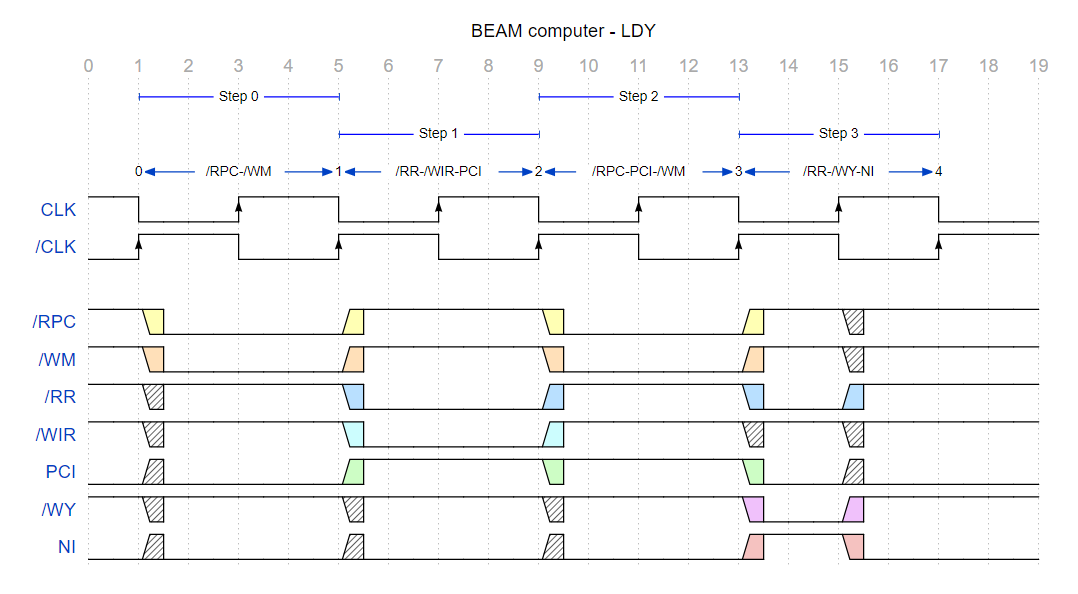
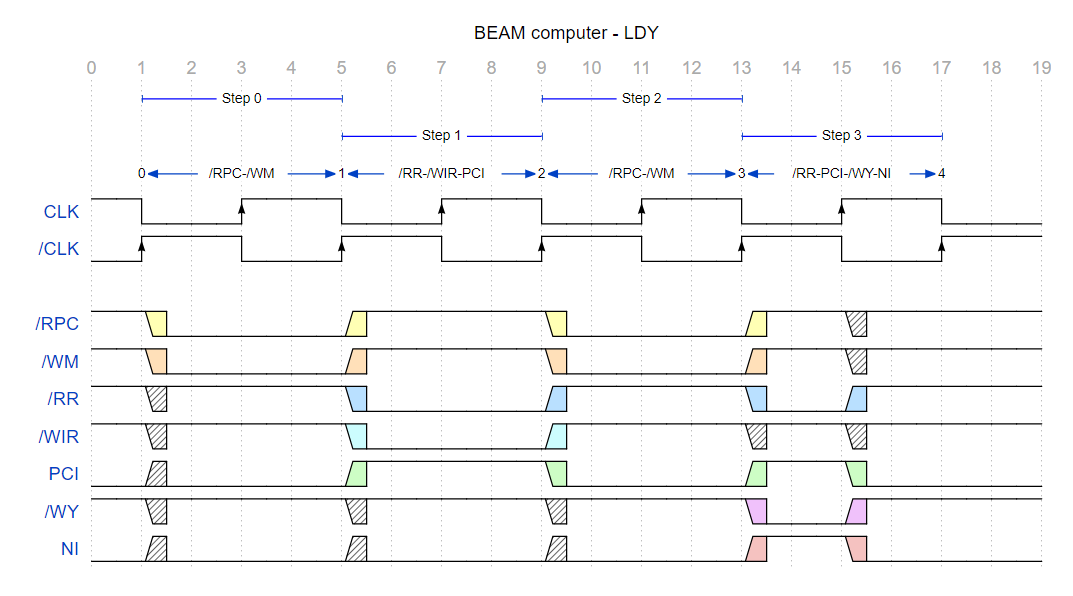
Update Flag C in CL

diff --git a/docs/_docs/40-control.md b/docs/_docs/40-control.md
@@ -114,7 +114,7 @@ Tirando le fila, per un computer come l'NQSAP o il BEAM:
 
 Per l'NQSAP Tom ha deciso di utilizzare comunque EEPROM da 256Kb anziché da 64Kb; il BEAM richiede invece obbligatoriamente EEPROM da 256Kb, perché le EEPROM da 128Kb con interfaccia parallela <a href="https://eu.mouser.com/c/semiconductors/memory-ics/eeprom/?interface%20type=Parallel" target="_blank">non sono disponibili in commercio</a>.
 
-Come si vedrà in seguito parlando del Ring Counter, un aspetto importante del caricamento dei registri è il [*momento*](#il-clock-e-il-glitching-delle-eeprom) in cui vengono caricati: al Falling Edge del clock, oppure al Rising Edge: il caricamento dell'Instruction Register del SAP e dell'NQSAP avviene al Rising Edge, mentre quello del BEAM avviene al Falling Edge.
+Come si vedrà in seguito parlando del Ring Counter, un aspetto importante del caricamento dei registri è il [*momento*](#il-clock-il-glitching-delle-eeprom-e-linstruction-register-parte-2) in cui vengono caricati: al Falling Edge del clock, oppure al Rising Edge: il caricamento dell'Instruction Register del SAP e dell'NQSAP avviene al Rising Edge, mentre quello del BEAM avviene al Falling Edge.
 
 Prima di approfondire l'argomento, è opportuno iniziare a parlare anche del Ring Counter, che ha un ruolo primario nel caricamento di tutti i registri, IR compreso.
 
@@ -295,15 +295,51 @@ Risulta comunque interessante visualizzare il comportamento dei segnali di contr
 
 *Nessun glitching sul BEAM al momento 7 nello step 1*.
 
-Il primo dei due '377 dell'IR viene aggiornato al Rising Edge nel momento 7, come avviene anche nel SAP. Le uscite di questo primo registro sono inviate come input al secondo '377, che si aggiorna al momento 9 in contemporanea con l'incremento del RC al Falling Edge del clock. In questo modo, tutti i segnali di controllo hanno tempo di stabilizzarsi in attesa del momento 11, quando i registri vengono caricati secondo le microistruzioni impostate dallo step 2.
+Il primo dei due '377 dell'IR viene aggiornato al Rising Edge nel momento 7, come avviene anche nel SAP. Le uscite di questo primo registro sono inviate come input al secondo '377, che si aggiorna al momento 9 in contemporanea con l'incremento del RC al Falling Edge del clock. In questo modo, tutti gli ingressi delle EEPROM vengono aggiornati contemporaneamente e hanno tempo di stabilizzarsi in attesa del momento 11, quando i registri vengono caricati secondo le microistruzioni impostate dallo step 2.
 
-**sistemare il wavedro, perché l'istruzione LDY del BEAM ha il PCI all'ultimo step e non penultimo**
+Sì, d'accordo, ma come possiamo valutare che l'eliminazione del glitching deriva effettivamente dalla modifica al Program Counter? Tutti i registri 8 bit del BEAM sono realizzati con '377, ma vi sono alcuni registri che abbisognano di un gate in ingresso per creare un segnale di abilitazione artificiale: i Flag.
 
-**DA FINIRE aggiungere qui la wavedrom del caricamento del flag** Se tutti registri 8 bit del beam sono realizzati con 377, vi sono in realtà alcuni registri che abbisognano di un gate in ingresso per creare un segnale di  abilitazione artificiale: Flag. Per modificare un Flag possiamo prendere in esame la semplice istruzione CLC che azzera il carry.
+![Registro Flag C del BEAM](../../assets/control/40-beam-c-flag.png "Nessun glitching sul BEAM al momento 7 nello step 1"){:width="66%"}
+
+*Registro Flag C del BEAM*.
+
+Per vedere come si modifica un Flag, possiamo prendere in esame la semplice istruzione CLC, che azzera il Carry.
+
+~~~text
+| ---- | --------------------|
+| Step | Microistruzione     |
+| ---- | --------------------|
+| 1*   | RPC | WM            |
+| 2*   | RR  | WIR | PCI     |
+| 3    | CC  | FC  | RL  | N |
+| ---- | --------------------|
+~~~
+
+*Scomposizione dell'istruzione SEC nelle sue tre microistruzioni elementari*.
+
+1. Il primo step carica l'indirizzo del Program Counter nel Memory Address Register:
+    - RPC, Read Program Counter - espone sul bus l'indirizzo del Program Counter
+    - WM, Write Memory Address Register - scrive il contenuto del bus nel MAR
+2. Il secondo step carica l'opcode dell'istruzione nell'IR e incrementa il PC per farlo puntare alla locazione di memoria successiva (che nel caso dell'istruzione LDA contiene l'operando):
+    - RR, Read RAM - espone sul bus il contenuto della locazione di memoria puntata dal MAR
+    - WIR, Write Instruction Register - scrive il contenuto del bus nell'Instruction Register
+    - PCI, Program Counter Increment - incrementa il Program Counter
+3. Il terzo step scrive 1 sul registro C del 74LS74:
+    - CC, Clear Carry - espone il contenuto del Program Counter sul bus
+    - FC, Flag C - scrive il contenuto del bus nel MAR
+    - RL, Read ALU - espone sul bus il contenuto dell'ALU
+    - N, Next - resetta il Ring Counter
+
+CC attivo invia un segnale HI sul pin ALU-Cin; l'[opcode 03](..alu/#relazione-diretta-hardwired-tra-instruction-register-e-alu) con ALU-Cin attivo obbliga l'ALU ad emettere tutti 1 in output sul bus, dunque sul pin D del Flip-Flop ci sarà un 1.
+
+Poiché il FF non dispone di un ingresso Enable, questo viene realizzato utilizzando un gate AND tra clock e segnale di controllo FC.
+
+
+
 
 ---
 
-Concludendo la sezione, è importante ricordare che le operazioni di lettura e scrittura impostate dalla Control Word vengono eseguite secondo tempistiche diverse. Al Falling Edge del clock:
+Concludendo la sezione, è importante ricordare che tutti i segnali di una microistruzione sono attivati contemporaneamente, ma che le operazioni di lettura e scrittura impostate dalla Control Word vengono eseguite secondo tempistiche diverse. Al Falling Edge del clock:
 
 - I segnali di lettura impostati dalla Control Word attivano immediatamente l'eventuale modulo interessato da una Read, il quale presenta subito il suo output sul bus; ad esempio, l'attivazione di un bus transceiver <a href="https://www.mouser.com/datasheet/2/308/74LS245-1190460.pdf" target="_blank">74LS245</a> è immediata.
 - Viceversa, i segnali di caricamento preparano i moduli interessati, ma le operazioni di Write vengono eseguite solo al successivo Rising Edge del clock, assicurando così che i registri da aggiornare ricevano segnali già stabilizzati. Un esempio è il registro tipo D 74LS377 citato poc'anzi.
